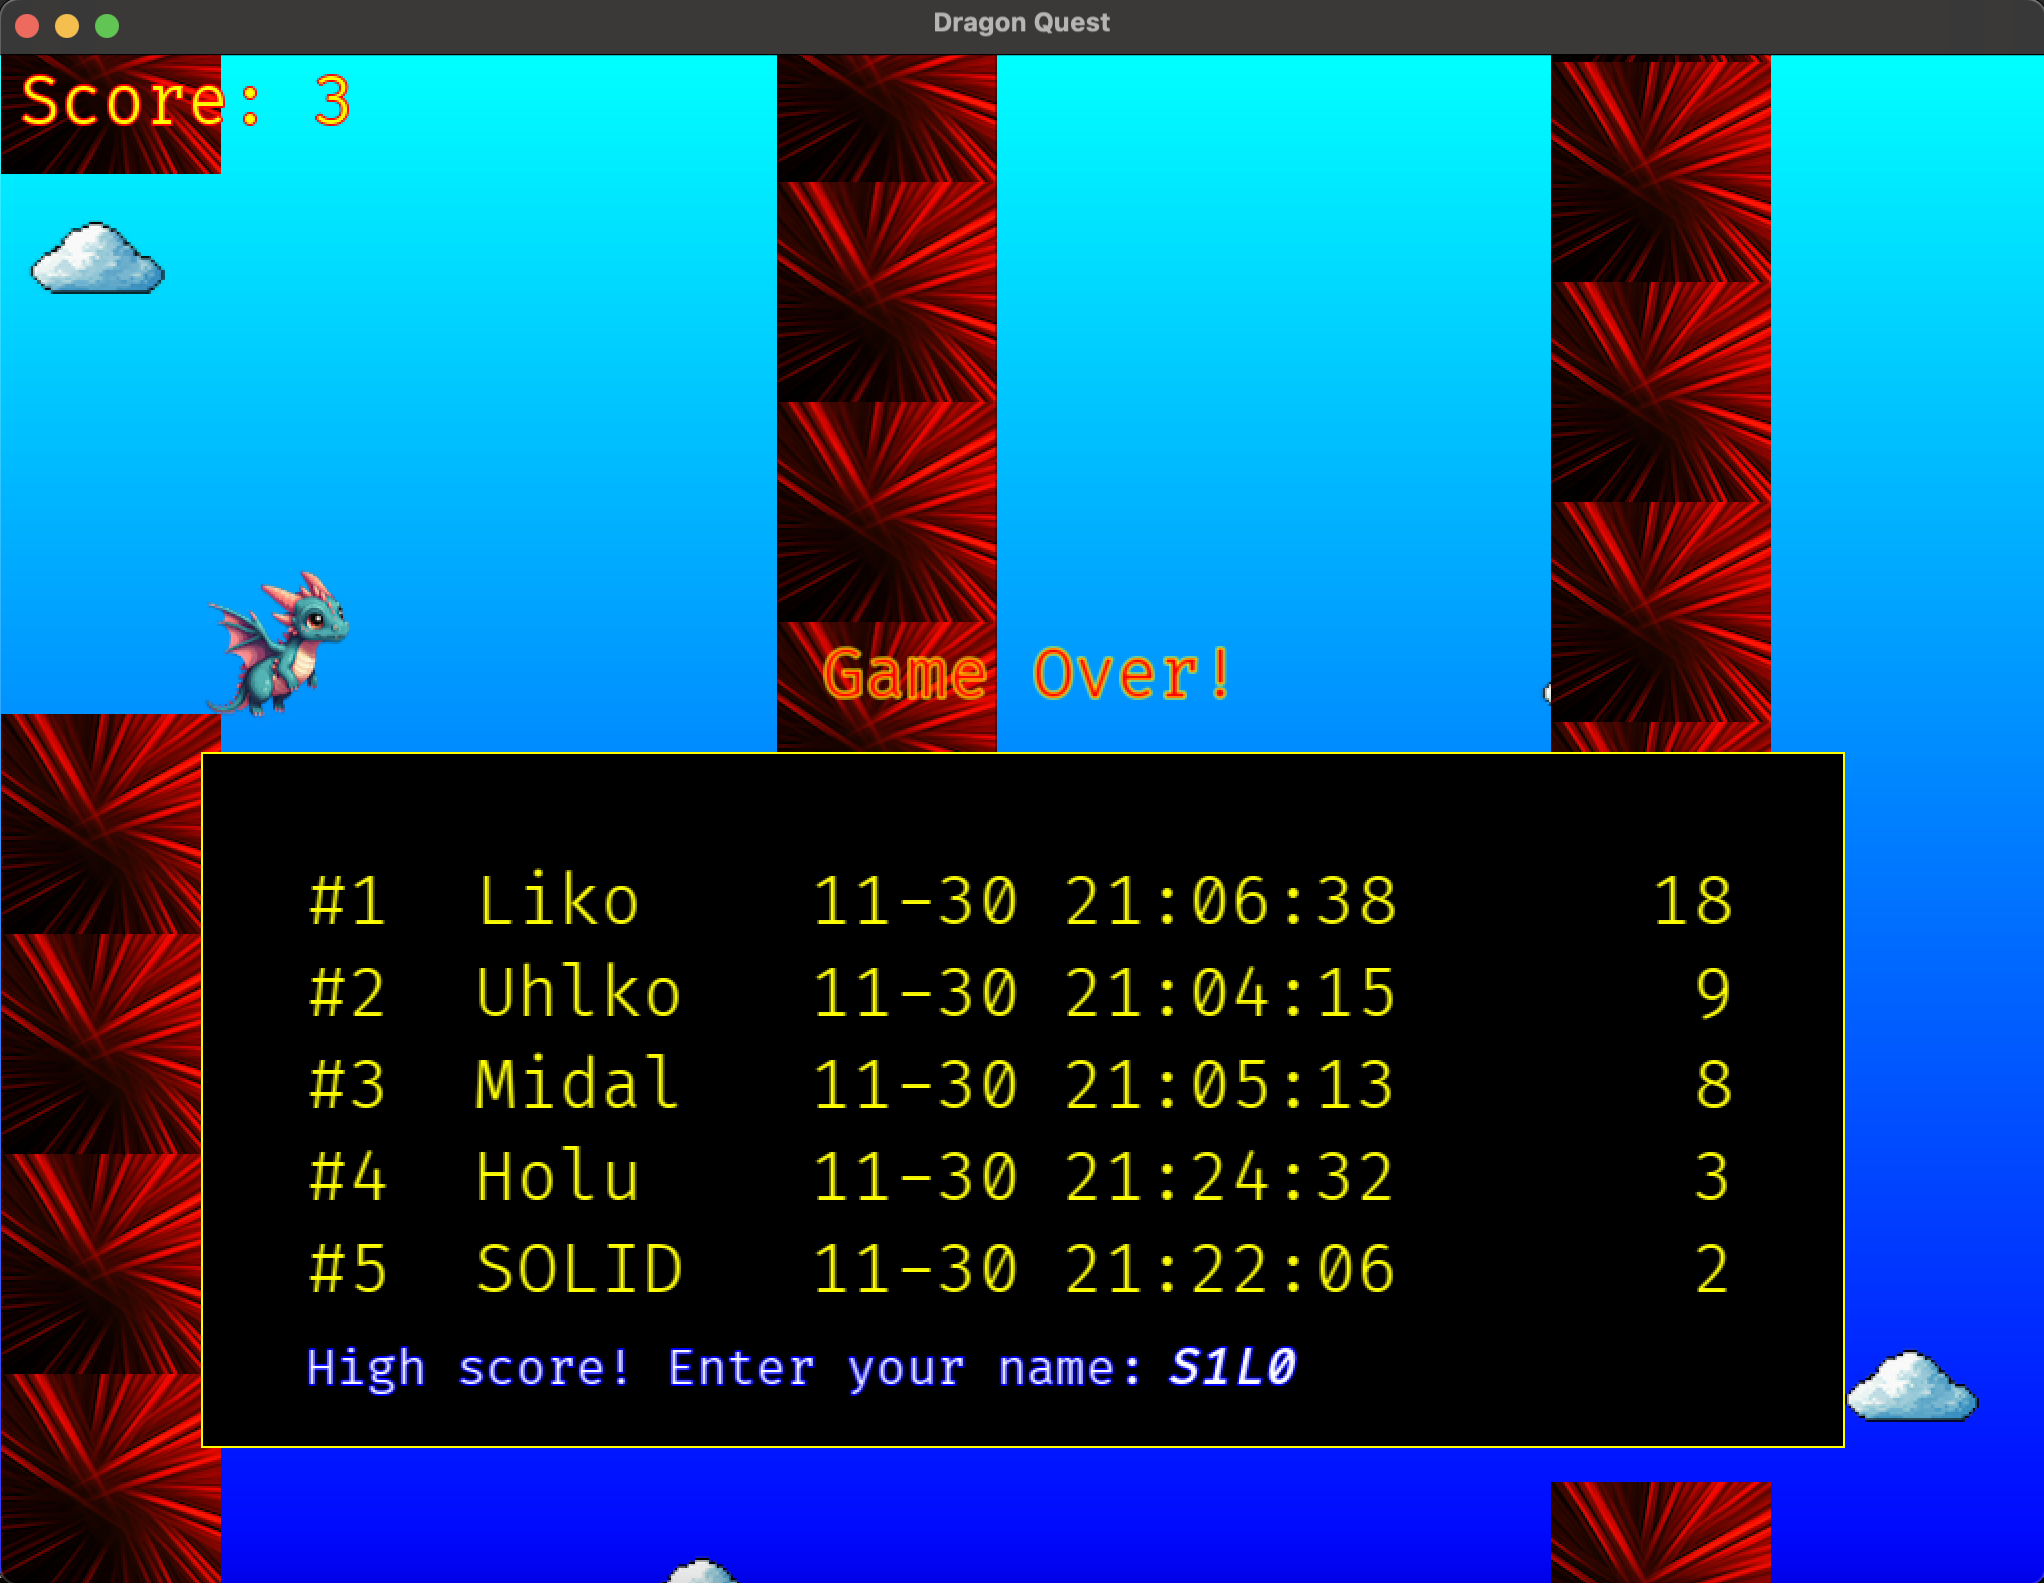
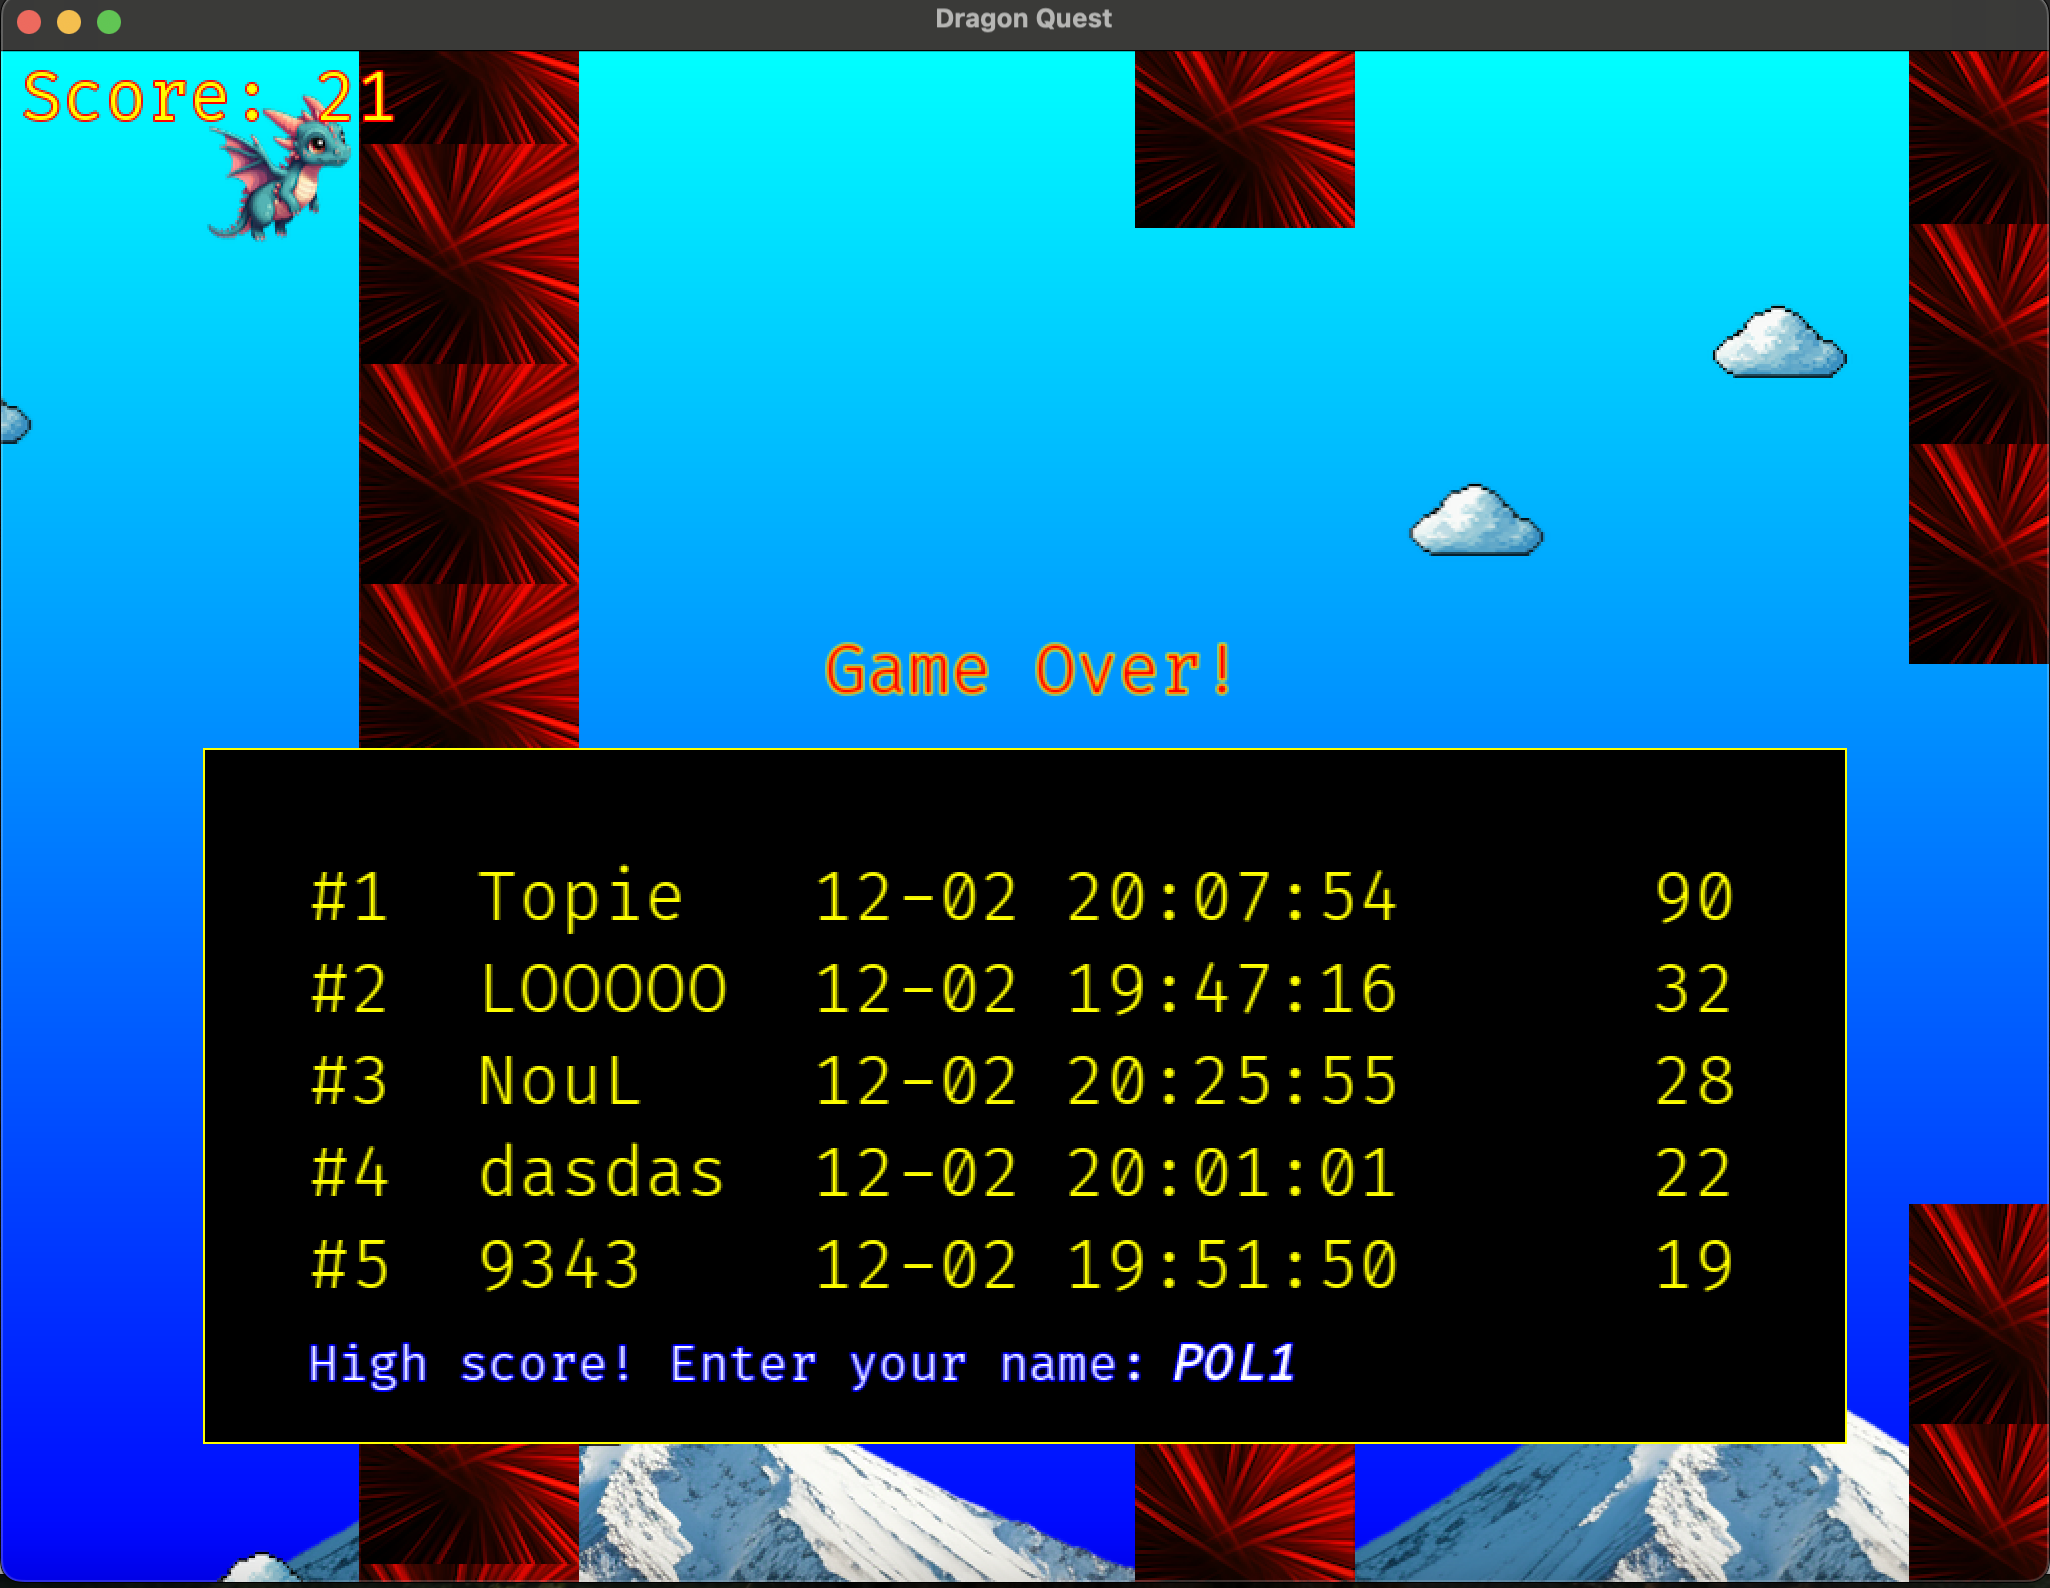
Added mountains.

diff --git a/src/Mounts.cpp b/src/Mounts.cpp
@@ -1,0 +1,65 @@
+#include "Mounts.h"
+
+namespace game::mount
+{
+    Mounts::Mounts() : mounts_()
+    {
+        for (int i = 0; i < NUMBER_OF_MOUNTS; i++)
+        {
+            const std::string image_ = std::format("./res/Mount{}.png", i);
+            // @todo handle error no file found here
+            textures_[i].loadFromFile(image_);
+            textures_[i].setSmooth(true);
+        }
+    }
+
+    void Mounts::spawnMount(const float &start, const int &height, const float &deltaTime)
+    {
+        mountSpawnTimer += deltaTime;
+        if (mountSpawnTimer >= MOUNT_SPAWN_INTERVAL)
+        {
+            mountSpawnTimer = 0.f;
+            std::srand(std::time(nullptr));
+            const int i = (std::rand() % 3); // Randomize mount
+            mounts_.emplace_back(std::make_unique<Mount>(textures_[i], start, height - textures_[i].getSize().y));
+        }
+    }
+
+    void Mounts::moveMount(const float &deltaTime)
+    {
+        for (auto &mount : mounts_)
+        {
+            mount->move(MOUNT_SPEED * deltaTime, 0);
+        }
+    }
+
+    const Mounts_t &Mounts::getMounts() const
+    {
+        return mounts_;
+    }
+
+    const bool Mounts::offScreen(const size_t &i) const
+    {
+        return mounts_[i]->getPosition().x + mounts_[i]->getTextureRect().getSize().x < 0;
+    }
+
+    void Mounts::eraseOffScreenMount()
+    {
+        for (int i = 0; i < mounts_.size(); i++)
+        {
+            if (offScreen(i))
+            {
+                mounts_.erase(mounts_.begin() + i);
+            }
+        }
+    }
+
+    void Mounts::reset()
+    {
+        mountSpawnTimer = 0.f;
+        mounts_.clear();
+        Mounts_t().swap(mounts_);
+    }
+
+    Mounts::~Mounts() {}
+}

diff --git a/src/Game.cpp b/src/Game.cpp
@@ -6,6 +6,7 @@ namespace game
                    ctrChar(),
                    pipes(),
                    clouds(),
+                   mounts(),
                    leaderboard()
     {
         this->setFramerateLimit(FPS_LIMIT);
@@ -84,6 +85,7 @@ namespace game
         scoreText.setString(std::format("Score: {}", score));
         pipes.reset();
         clouds.reset();
+        mounts.reset();
     }
 
     void Game::gamePlay()
@@ -97,10 +99,15 @@ namespace game
 
             // Cloud spawning
             clouds.spawnCloud(WINDOW_WIDTH, static_cast<int>(WINDOW_HEIGHT), deltaTime);
-
             // Move clouds
             clouds.moveCloud(deltaTime);
             clouds.eraseOffScreenCloud();
+
+            // Mount spawning
+            mounts.spawnMount(WINDOW_WIDTH, static_cast<int>(WINDOW_HEIGHT), deltaTime);
+            // Move mounts
+            mounts.moveMount(deltaTime);
+            mounts.eraseOffScreenMount();
 
             // Pipe spawning
             pipes.spawnPipe(WINDOW_WIDTH, static_cast<int>(WINDOW_HEIGHT * 0.66), deltaTime);
@@ -254,6 +261,11 @@ namespace game
         };
 
         draw(wnd_background, 4, sf::PrimitiveType::Quads);
+
+        for (const auto &mount_ : mounts.getMounts())
+        {
+            draw(*mount_);
+        }
 
         for (const auto &cloud_ : clouds.getClouds())
         {

diff --git a/src/include/Mounts.h b/src/include/Mounts.h
@@ -1,0 +1,32 @@
+#pragma once
+#include <SFML/Graphics.hpp>
+#include "Mount.h"
+#include <format>
+#include <string>
+
+namespace game::mount
+{
+    constexpr auto MOUNT_SPEED = -95.f;
+    constexpr auto MOUNT_SPAWN_INTERVAL = 5.5f;
+    constexpr size_t NUMBER_OF_MOUNTS = 3;
+
+    typedef std::vector<std::unique_ptr<Mount>> Mounts_t;
+
+    class Mounts
+    {
+    private:
+        Mounts_t mounts_;
+        std::array<sf::Texture, 3> textures_;
+        float mountSpawnTimer = 0.f;
+
+    public:
+        Mounts();
+        void spawnMount(const float &start, const int &height, const float &deltaTime);
+        void moveMount(const float &deltaTime);
+        const Mounts_t &getMounts() const;
+        const bool offScreen(const size_t &i) const;
+        void eraseOffScreenMount();
+        void reset();
+        ~Mounts();
+    };
+}

diff --git a/src/include/Game.h b/src/include/Game.h
@@ -10,6 +10,7 @@
 #include "Pipes.h"
 #include "Cloud.h"
 #include "Clouds.h"
+#include "Mounts.h"
 #include "Leaderboard.h"
 #include "GameState.h"
 
@@ -37,6 +38,7 @@ namespace game
         game::character::CtrChar ctrChar;
         game::pipes::Pipes pipes;
         game::cloud::Clouds clouds;
+        game::mount::Mounts mounts;
         game::lb::Leaderboard leaderboard;
 
         sf::Font font;

diff --git a/src/include/Mount.h b/src/include/Mount.h
@@ -1,0 +1,12 @@
+#pragma once
+#include <SFML/Graphics.hpp>
+
+namespace game::mount
+{
+    class Mount : public sf::Sprite
+    {
+    public:
+        Mount(const sf::Texture &texture, const float &x, const float &y);
+        ~Mount();
+    };
+}

diff --git a/src/Mount.cpp b/src/Mount.cpp
@@ -1,0 +1,12 @@
+#include "Mount.h"
+
+namespace game::mount
+{
+    Mount::Mount(const sf::Texture &texture, const float &x, const float &y)
+    {
+        setTexture(texture);
+        setPosition(x, y);
+    }
+
+    Mount::~Mount() {}
+}
